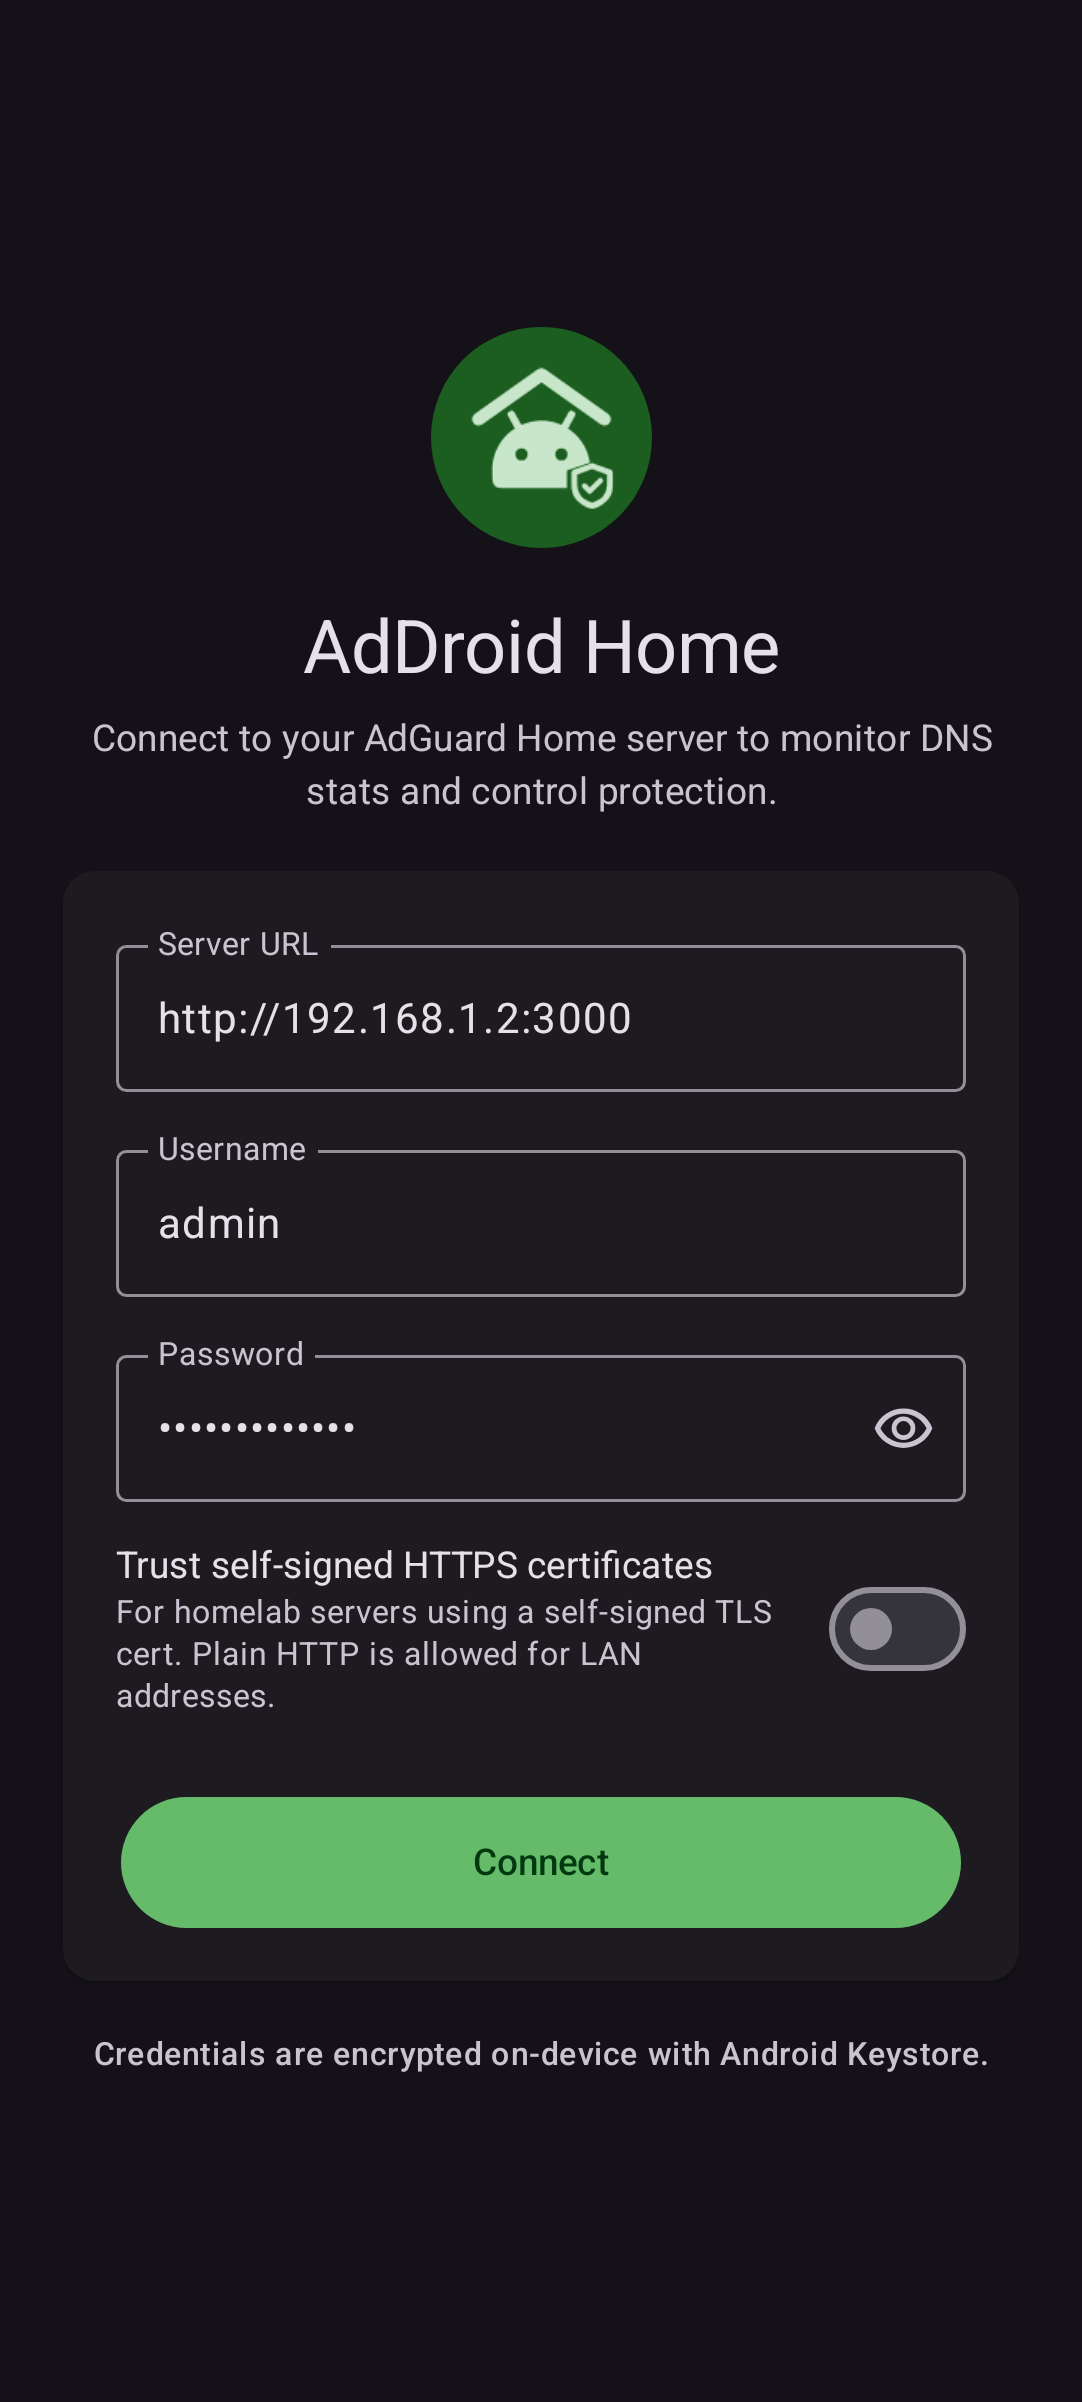
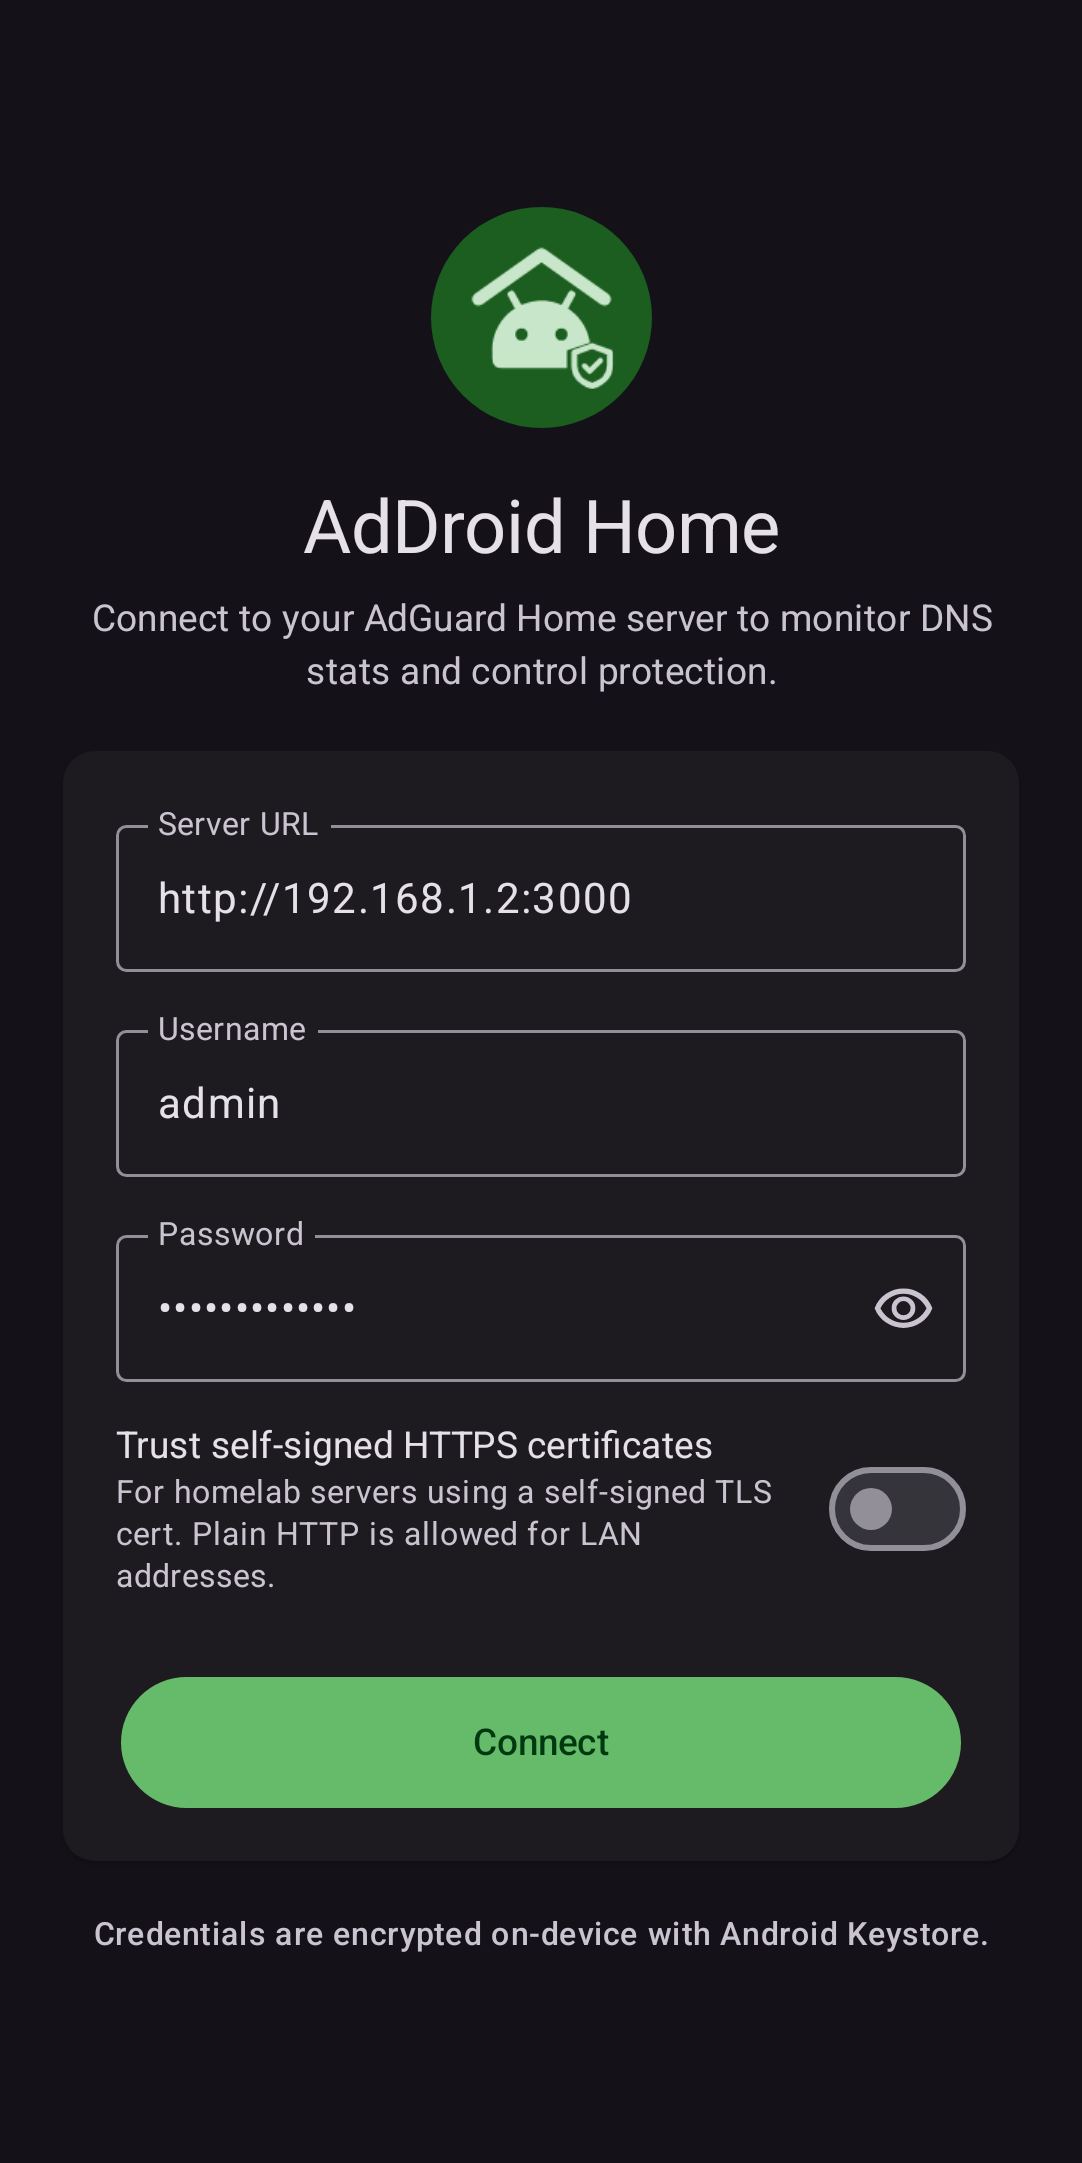
Update Fastlane screenshots and previews to 2:1 aspect ratio

diff --git a/app/src/main/java/com/syxhen/addroidhome/ui/ConnectedHomeScreen.kt b/app/src/main/java/com/syxhen/addroidhome/ui/ConnectedHomeScreen.kt
@@ -381,13 +381,13 @@ private fun ConnectedHomePreviewHost(
     }
 }
 
-@Preview(name = "Connected Home Dark", showBackground = true, widthDp = 412, heightDp = 915)
+@Preview(name = "Connected Home Dark", showBackground = true, widthDp = 412, heightDp = 824)
 @Composable
 private fun ConnectedHomeDarkPreview() {
     ConnectedHomePreviewHost(selectedTab = MainTab.Dashboard)
 }
 
-@Preview(name = "Connected Query Log Dark", showBackground = true, widthDp = 412, heightDp = 915)
+@Preview(name = "Connected Query Log Dark", showBackground = true, widthDp = 412, heightDp = 824)
 @Composable
 private fun ConnectedHomeQueryLogDarkPreview() {
     val extendedItems = sampleQueryLogItems() + listOf(
@@ -432,7 +432,7 @@ private fun ConnectedHomeQueryLogDarkPreview() {
     )
 }
 
-@Preview(name = "Connected Settings Dark", showBackground = true, widthDp = 412, heightDp = 915)
+@Preview(name = "Connected Settings Dark", showBackground = true, widthDp = 412, heightDp = 824)
 @Composable
 private fun ConnectedHomeSettingsDarkPreview() {
     ConnectedHomePreviewHost(

diff --git a/app/src/main/java/com/syxhen/addroidhome/ui/connection/ServerConnectionScreen.kt b/app/src/main/java/com/syxhen/addroidhome/ui/connection/ServerConnectionScreen.kt
@@ -279,7 +279,7 @@ private fun ServerConnectionScreenPreview() {
     }
 }
 
-@Preview(name = "Connection Dark", showBackground = true, widthDp = 412, heightDp = 915)
+@Preview(name = "Connection Dark", showBackground = true, widthDp = 412, heightDp = 824)
 @Composable
 private fun ServerConnectionDarkPreview() {
     AdDroidHomeTheme(darkTheme = true, dynamicColor = false) {
